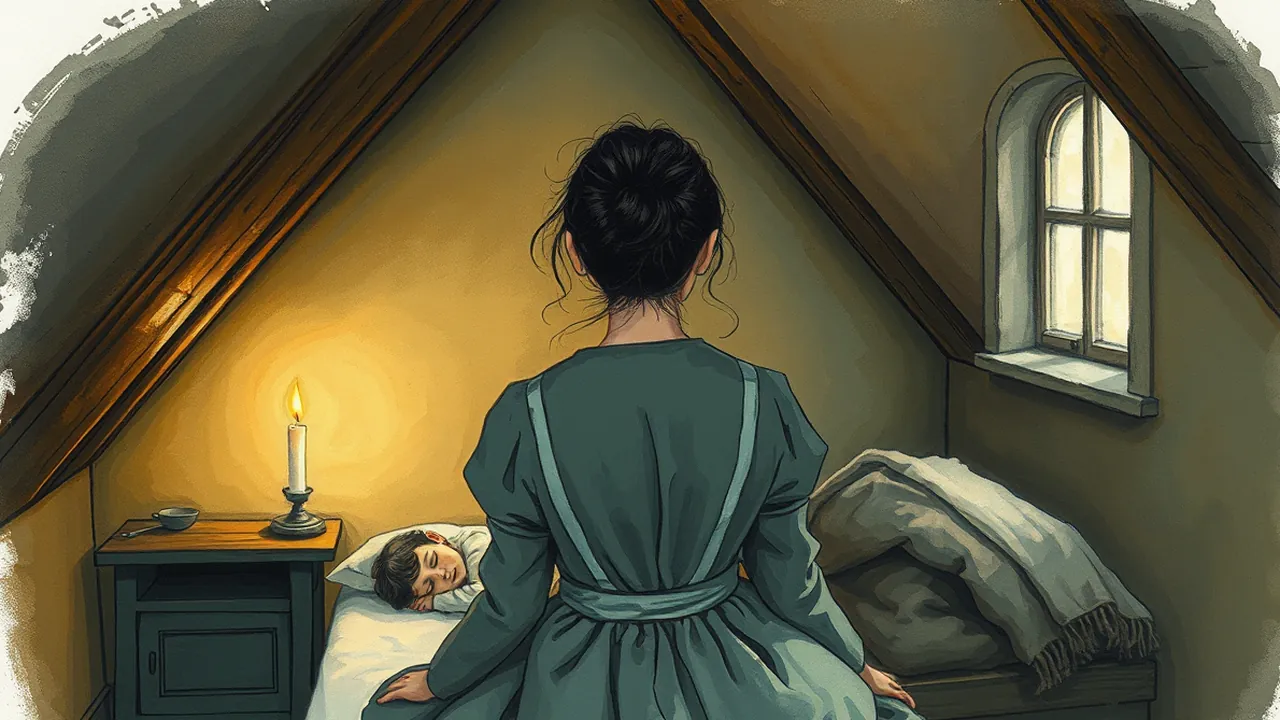
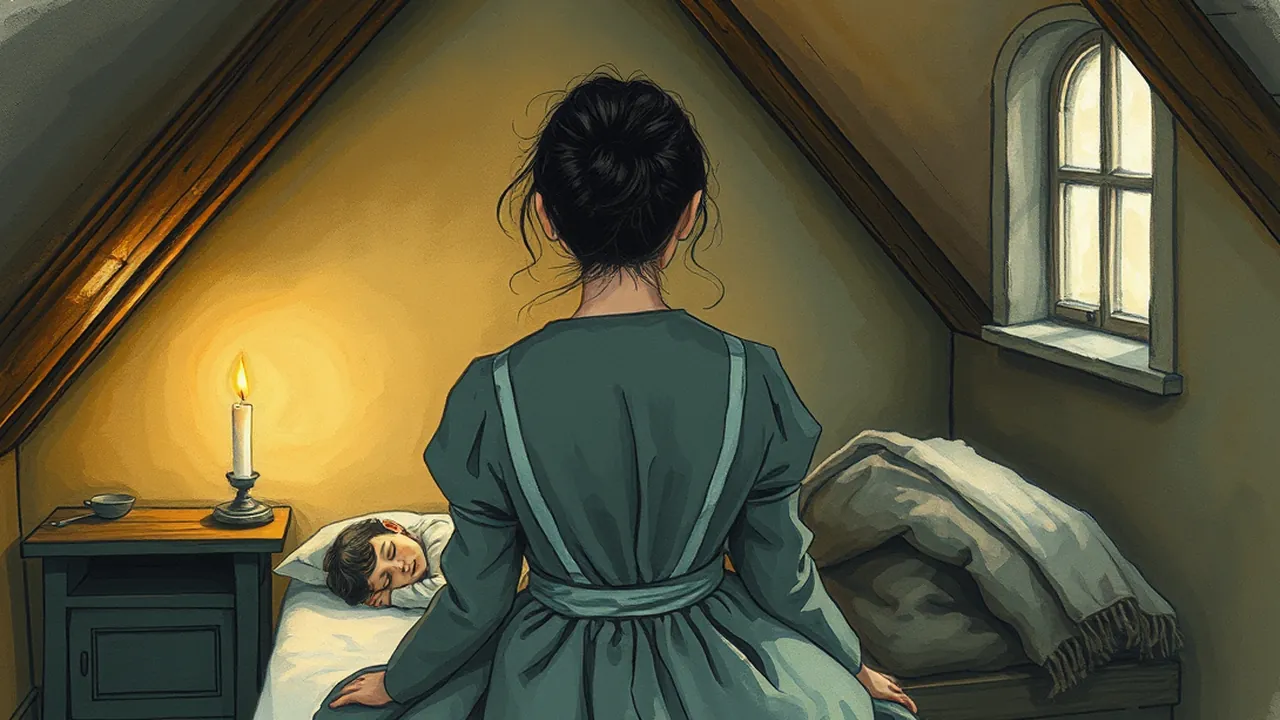
Session 10 scene paintings: tighter crop for the song, light set
Claude-Session: https://claude.ai/code/session_017vywRDB2VhXYzZ6gzeFAvU

diff --git a/index.html b/index.html
@@ -9877,7 +9877,7 @@ for(const k of [...Object.keys(IPICT),"h-toast","h-watcher"])if(/^([hks]|hn)-/.t
 /* session 10: a painting for every scene (source/art/k10-*, s10-*, g10-*, t10-*.webp). Until a file has loaded, or without it, its key shows the interlude's
    one older picture (the second column). ?oneart in the address turns the whole set off: one picture per interlude, as before. */
 const I10_ONE=/[?&]oneart\b/.test(location.search);
-const I10PIC=[["k10-cave","cave",.41,.31,"#ffc070",.3,1,.5],["k10-eaves","memory",.1,.55,"#ffc070",.4,0,.5],["k10-stair","memory",.7,.28,"#ffc070",.35,0,.4],["k10-song","memory",.23,.56,"#ffc070",.45,0,.4],
+const I10PIC=[["k10-cave","cave",.41,.31,"#ffc070",.3,1,.5],["k10-eaves","memory",.1,.55,"#ffc070",.4,0,.5],["k10-stair","memory",.7,.28,"#ffc070",.35,0,.4],["k10-song","memory",.19,.53,"#ffc070",.45,0,.4],
   ["k10-candle","memory",.375,.44,"#ffc070",.4,0,.3],["k10-back","cave",.35,.16,"#ffd070",.35,1,.5],
   ["s10-ash","cave",.1,.78,"#ffc070",.25,1,.5],["s10-patron","patron",.155,.26,"#ffb060",.3,1,.2],["s10-eye","patron",.94,.15,"#ffc070",.3,1,.2],
   ["s10-blade","patron",.685,.47,"#ffc070",.3,1,.2],

diff --git a/source/chronicle.html b/source/chronicle.html
@@ -9843,7 +9843,7 @@ for(const k of [...Object.keys(IPICT),"h-toast","h-watcher"])if(/^([hks]|hn)-/.t
 /* session 10: a painting for every scene (source/art/k10-*, s10-*, g10-*, t10-*.webp). Until a file has loaded, or without it, its key shows the interlude's
    one older picture (the second column). ?oneart in the address turns the whole set off: one picture per interlude, as before. */
 const I10_ONE=/[?&]oneart\b/.test(location.search);
-const I10PIC=[["k10-cave","cave",.41,.31,"#ffc070",.3,1,.5],["k10-eaves","memory",.1,.55,"#ffc070",.4,0,.5],["k10-stair","memory",.7,.28,"#ffc070",.35,0,.4],["k10-song","memory",.23,.56,"#ffc070",.45,0,.4],
+const I10PIC=[["k10-cave","cave",.41,.31,"#ffc070",.3,1,.5],["k10-eaves","memory",.1,.55,"#ffc070",.4,0,.5],["k10-stair","memory",.7,.28,"#ffc070",.35,0,.4],["k10-song","memory",.19,.53,"#ffc070",.45,0,.4],
   ["k10-candle","memory",.375,.44,"#ffc070",.4,0,.3],["k10-back","cave",.35,.16,"#ffd070",.35,1,.5],
   ["s10-ash","cave",.1,.78,"#ffc070",.25,1,.5],["s10-patron","patron",.155,.26,"#ffb060",.3,1,.2],["s10-eye","patron",.94,.15,"#ffc070",.3,1,.2],
   ["s10-blade","patron",.685,.47,"#ffc070",.3,1,.2],
